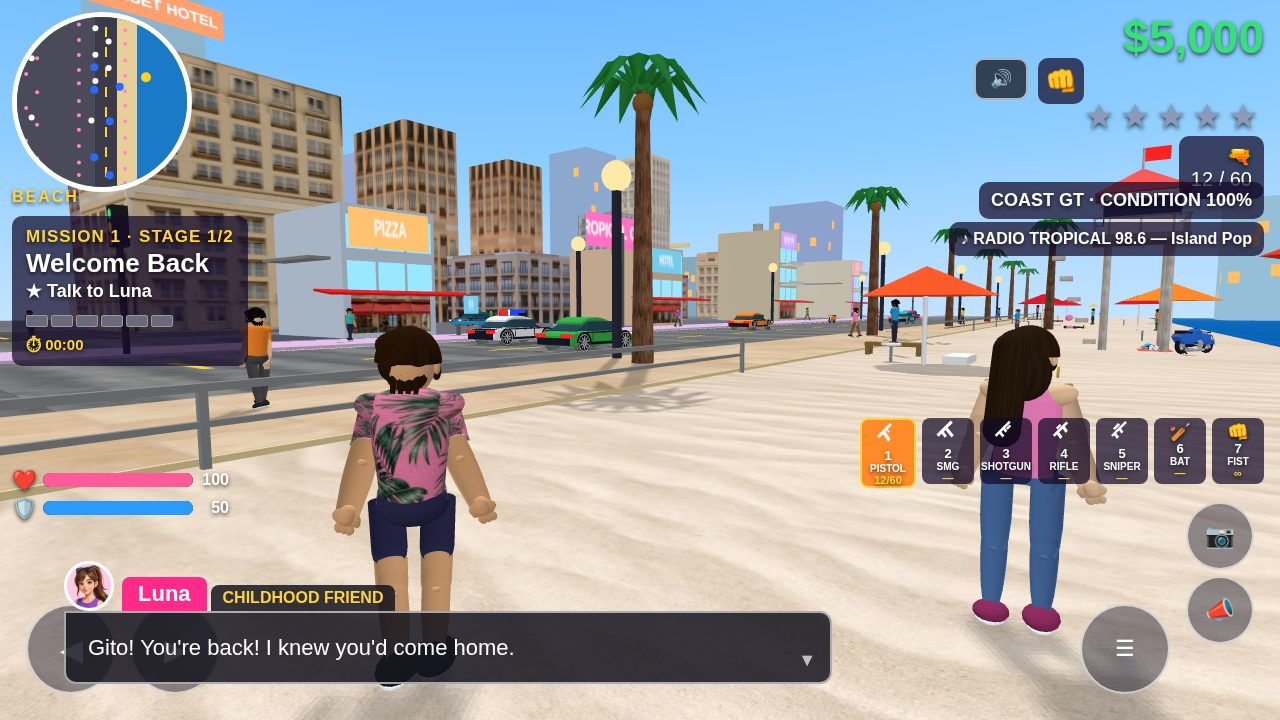
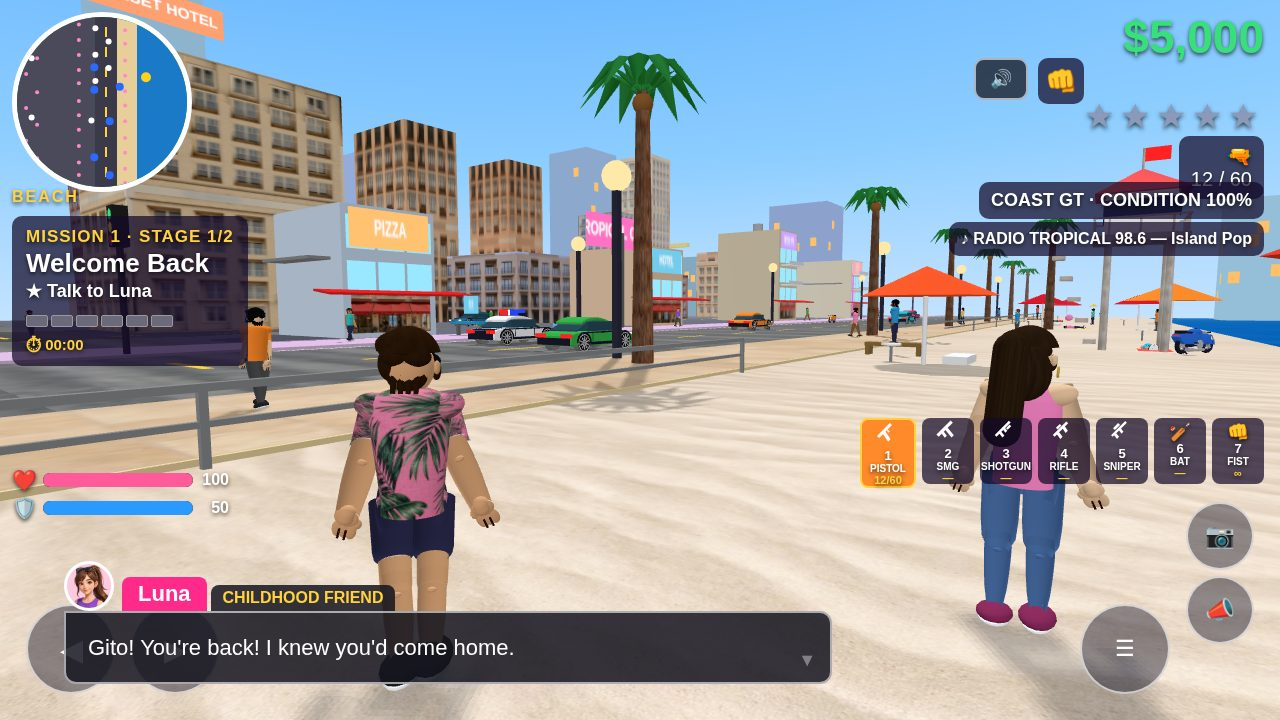
Tropical Coast: continuous hip silhouette, bold face and fingers (round 6)

diff --git a/game/src/character.js b/game/src/character.js
@@ -5,25 +5,29 @@
 var skinCols = [0xe8b88a, 0xc88a5a, 0x8a5a3a, 0xf0c8a0];
 var hairCols = [0x2a1a0a, 0x3a2a1a, 0x111111, 0x8a5a2a];
 
-// A real hand: a flattened palm, three small fused finger bumps in a row
-// (one mass, but the bottom silhouette scallops into readable fingers),
-// two thin dark grooves between the bumps, and a small round thumb bump
-// on the inner edge. No single mitten blob.
+// A real hand with BOLD readable fingers at 150px scale: a narrower
+// flattened palm, three large fused finger bumps in a row (one mass, but
+// the bottom silhouette scallops deep into readable fingers), two wide
+// very dark grooves between the bumps on BOTH faces (front and back, so
+// the hand reads fingered from behind too), and a bigger thumb bump on
+// the inner edge. No single mitten blob, no boxing glove.
 function makeHand(skinM, side) {
   var h = new THREE.Group();
   var palm = new THREE.Mesh(new THREE.SphereGeometry(0.055, 16, 12), skinM);
-  palm.scale.set(1.35, 1.0, 0.34); h.add(palm);
-  var grooveM = new THREE.MeshLambertMaterial({ color: 0x8a5a3a });
-  [-0.028, 0, 0.028].forEach(function (fx) {
-    var finger = new THREE.Mesh(new THREE.SphereGeometry(0.024, 12, 10), skinM);
-    finger.scale.set(1.0, 1.5, 0.45); finger.position.set(fx, -0.082, 0.008); h.add(finger);
+  palm.scale.set(1.15, 1.0, 0.34); h.add(palm);
+  var grooveM = new THREE.MeshLambertMaterial({ color: 0x2a1206 });
+  [-0.034, 0, 0.034].forEach(function (fx) {
+    var finger = new THREE.Mesh(new THREE.SphereGeometry(0.030, 12, 10), skinM);
+    finger.scale.set(1.0, 1.8, 0.45); finger.position.set(fx, -0.088, 0.008); h.add(finger);
   });
-  [-0.014, 0.014].forEach(function (gx) {
-    var groove = new THREE.Mesh(new THREE.BoxGeometry(0.005, 0.045, 0.006), grooveM);
-    groove.position.set(gx, -0.092, 0.020); h.add(groove);
+  [-0.017, 0.017].forEach(function (gx) {
+    var groove = new THREE.Mesh(new THREE.BoxGeometry(0.010, 0.062, 0.008), grooveM);
+    groove.position.set(gx, -0.095, 0.022); h.add(groove);
+    var grooveB = new THREE.Mesh(new THREE.BoxGeometry(0.010, 0.062, 0.008), grooveM);
+    grooveB.position.set(gx, -0.095, -0.022); h.add(grooveB);
   });
-  var th = new THREE.Mesh(new THREE.SphereGeometry(0.018, 10, 8), skinM);
-  th.scale.set(1, 1.4, 0.8); th.position.set(-side * 0.055, -0.036, 0.014); h.add(th);
+  var th = new THREE.Mesh(new THREE.SphereGeometry(0.022, 10, 8), skinM);
+  th.scale.set(1, 1.4, 0.8); th.position.set(-side * 0.058, -0.036, 0.014); h.add(th);
   return h;
 }
 // A shoe: a wide elliptical upper (not a ball, not a box) on a thin light
@@ -56,7 +60,7 @@ function makeHead(skinM, hairM, opts) {
   skull.scale.set(1, 1.15, 1.0); head.add(skull);
   var jaw = new THREE.Mesh(new THREE.SphereGeometry(0.085, 14, 12), skinM);
   jaw.scale.set(0.82, 0.62, 0.88); jaw.position.set(0, -0.075, 0.015); head.add(jaw);
-  var hair = new THREE.Mesh(new THREE.SphereGeometry(0.15, 20, 16, 0, Math.PI * 2, 0, Math.PI * 0.50), hairM);
+  var hair = new THREE.Mesh(new THREE.SphereGeometry(0.15, 20, 16, 0, Math.PI * 2, 0, Math.PI * 0.40), hairM);
   hair.scale.set(1.08, 1.22, 1.14); hair.position.set(0, 0.025, -0.015); head.add(hair);
   var nape = new THREE.Mesh(new THREE.SphereGeometry(0.10, 14, 12), hairM);
   nape.scale.set(1.0, 0.75, 0.55); nape.position.set(0, -0.045, -0.06); head.add(nape);
@@ -73,7 +77,7 @@ function makeHead(skinM, hairM, opts) {
   var sweep = new THREE.Mesh(new THREE.SphereGeometry(0.105, 14, 12), hairM);
   sweep.scale.set(0.6, 0.9, 1.0); sweep.position.set(0.085, 0.02, -0.01); head.add(sweep);
   var fringe = new THREE.Mesh(new THREE.SphereGeometry(0.10, 14, 12), hairM);
-  fringe.scale.set(1.15, 0.55, 0.60); fringe.position.set(0.04, 0.105, 0.09); head.add(fringe);
+  fringe.scale.set(1.15, 0.42, 0.50); fringe.position.set(0.04, 0.125, 0.06); head.add(fringe);
   [-0.125, 0.125].forEach(function (ex) {
     var sb = new THREE.Mesh(new THREE.SphereGeometry(0.04, 12, 10), hairM);
     sb.scale.set(0.6, 1.3, 0.7); sb.position.set(ex, -0.02, 0.05); head.add(sb);
@@ -84,24 +88,24 @@ function makeHead(skinM, hairM, opts) {
   });
   if (opts.eyes) {
     [-0.055, 0.055].forEach(function (ex) {
-      var iris = new THREE.Mesh(new THREE.SphereGeometry(0.012, 12, 10), new THREE.MeshLambertMaterial({ color: 0x2a1a10 }));
-      iris.scale.set(1, 1, 0.4); iris.position.set(ex, 0.02, 0.118); head.add(iris);
+      var iris = new THREE.Mesh(new THREE.SphereGeometry(0.018, 12, 10), new THREE.MeshLambertMaterial({ color: 0x2a1a10 }));
+      iris.scale.set(1, 1, 0.4); iris.position.set(ex, 0.02, 0.120); head.add(iris);
       var glint = new THREE.Mesh(new THREE.SphereGeometry(0.0035, 8, 6), new THREE.MeshLambertMaterial({ color: 0xffffff }));
-      glint.scale.set(1, 1, 0.5); glint.position.set(ex - 0.004, 0.026, 0.122); head.add(glint);
-      var brow = new THREE.Mesh(new THREE.BoxGeometry(0.05, 0.012, 0.012), hairM);
-      brow.position.set(ex, 0.105, 0.122); head.add(brow);
+      glint.scale.set(1, 1, 0.5); glint.position.set(ex - 0.004, 0.026, 0.124); head.add(glint);
+      var brow = new THREE.Mesh(new THREE.BoxGeometry(0.062, 0.018, 0.012), hairM);
+      brow.position.set(ex, 0.078, 0.126); head.add(brow);
     });
   }
   if (opts.faceGlasses) {
-    var sgM = new THREE.MeshLambertMaterial({ color: 0x111114 });
-    [-0.052, 0.052].forEach(function (ex) {
-      var lens = new THREE.Mesh(new THREE.SphereGeometry(0.055, 12, 10), sgM);
-      lens.scale.set(1.0, 0.62, 0.25); lens.position.set(ex, 0.022, 0.125);
+    var sgM = new THREE.MeshBasicMaterial({ color: 0x0a0a0c });
+    [-0.056, 0.056].forEach(function (ex) {
+      var lens = new THREE.Mesh(new THREE.SphereGeometry(0.066, 12, 10), sgM);
+      lens.scale.set(1.18, 0.72, 0.22); lens.position.set(ex, 0.022, 0.125);
       lens.rotation.y = ex < 0 ? 0.18 : -0.18;
       head.add(lens);
     });
-    var topBar = new THREE.Mesh(new THREE.BoxGeometry(0.16, 0.012, 0.012), sgM);
-    topBar.position.set(0, 0.055, 0.124); head.add(topBar);
+    var topBar = new THREE.Mesh(new THREE.BoxGeometry(0.20, 0.02, 0.012), sgM);
+    topBar.position.set(0, 0.058, 0.124); head.add(topBar);
     var bridge = new THREE.Mesh(new THREE.BoxGeometry(0.028, 0.008, 0.010), sgM);
     bridge.position.set(0, 0.030, 0.124); head.add(bridge);
     [-0.104, 0.104].forEach(function (ax) {
@@ -128,14 +132,14 @@ function makeHead(skinM, hairM, opts) {
       hoop.position.set(ex, -0.07, 0.01); hoop.rotation.y = Math.PI / 2; head.add(hoop);
     });
   }
-  var nose = new THREE.Mesh(new THREE.SphereGeometry(0.026, 10, 8), skinM);
-  nose.scale.set(0.8, 1.1, 0.9); nose.position.set(0, -0.025, 0.145); head.add(nose);
+  var nose = new THREE.Mesh(new THREE.SphereGeometry(0.034, 10, 8), skinM);
+  nose.scale.set(0.9, 1.25, 1.0); nose.position.set(0, -0.025, 0.150); head.add(nose);
   if (opts.smile) {
-    var smile = new THREE.Mesh(new THREE.TorusGeometry(0.038, 0.006, 6, 12, Math.PI), new THREE.MeshLambertMaterial({ color: 0x6a2a2a }));
+    var smile = new THREE.Mesh(new THREE.TorusGeometry(0.05, 0.008, 6, 12, Math.PI), new THREE.MeshLambertMaterial({ color: 0x4a1a1a }));
     smile.position.set(0, -0.082, 0.12); smile.rotation.z = Math.PI;
     head.add(smile);
   } else {
-    var mouth = new THREE.Mesh(new THREE.BoxGeometry(0.062, 0.016, 0.012), new THREE.MeshLambertMaterial({ color: 0x6a2a2a }));
+    var mouth = new THREE.Mesh(new THREE.BoxGeometry(0.082, 0.024, 0.012), new THREE.MeshLambertMaterial({ color: 0x4a1a1a }));
     mouth.position.set(0, -0.085, 0.12); head.add(mouth);
   }
   return head;
@@ -151,11 +155,11 @@ function person(shirt, pants, female, opts) {
   var shirtM = new THREE.MeshLambertMaterial({ color: shirt });
   var pantsM = new THREE.MeshLambertMaterial({ color: pants });
   var legL = new THREE.Group(), legR = new THREE.Group();
-  legL.position.set(-0.13, 0.95, 0); legR.position.set(0.13, 0.95, 0);
+  legL.position.set(-0.11, 0.95, 0); legR.position.set(0.11, 0.95, 0);
   legL.rotation.z = 0.02; legR.rotation.z = -0.08;
   [legL, legR].forEach(function (lg) {
     var thighPts = [];
-    [[0.088, 0.25], [0.088, -0.17], [0.082, -0.23], [0.064, -0.25]].forEach(function (p) { thighPts.push(new THREE.Vector2(p[0], p[1])); });
+    [[0.105, 0.25], [0.105, -0.05], [0.098, -0.17], [0.082, -0.23], [0.064, -0.25]].forEach(function (p) { thighPts.push(new THREE.Vector2(p[0], p[1])); });
     var thigh = new THREE.Mesh(new THREE.LatheGeometry(thighPts, 20), pantsM);
     thigh.position.y = -0.25; lg.add(thigh);
     var knee = new THREE.Group(); knee.position.y = -0.50; lg.add(knee);
@@ -169,7 +173,7 @@ function person(shirt, pants, female, opts) {
   });
   g.add(legL); g.add(legR);
   var torsoPts = [];
-  [[0.155, 0.00], [0.165, 0.08], [0.175, 0.18], [0.19, 0.30], [0.20, 0.40], [0.205, 0.47], [0.20, 0.51], [0.175, 0.545], [0.13, 0.565], [0.085, 0.58]].forEach(function (p) { torsoPts.push(new THREE.Vector2(p[0], p[1])); });
+  [[0.158, -0.07], [0.155, 0.00], [0.165, 0.08], [0.175, 0.18], [0.19, 0.30], [0.20, 0.40], [0.205, 0.47], [0.20, 0.51], [0.175, 0.545], [0.13, 0.565], [0.085, 0.58]].forEach(function (p) { torsoPts.push(new THREE.Vector2(p[0], p[1])); });
   var torso = new THREE.Mesh(new THREE.LatheGeometry(torsoPts, 20), shirtM);
   torso.position.y = 0.95; torso.scale.z = 0.78; g.add(torso);
   var chest = new THREE.Mesh(new THREE.SphereGeometry(0.14, 16, 12), shirtM);
@@ -211,8 +215,10 @@ function person(shirt, pants, female, opts) {
   var head = makeHead(skin, new THREE.MeshLambertMaterial({ color: hairCols[Math.floor(rnd() * hairCols.length)] }), { eyes: true });
   g.add(head);
   head.rotation.z = 0.03;
-  var pelvis = new THREE.Mesh(new THREE.SphereGeometry(0.16, 20, 16), pantsM);
-  pelvis.scale.set(1.15, 0.75, 0.80); pelvis.position.y = 0.93; g.add(pelvis);
+  var hipPts = [];
+  [[0.165, 0.10], [0.178, 0.04], [0.182, -0.04], [0.172, -0.10], [0.158, -0.14]].forEach(function (p) { hipPts.push(new THREE.Vector2(p[0], p[1])); });
+  var pelvis = new THREE.Mesh(new THREE.LatheGeometry(hipPts, 20), pantsM);
+  pelvis.position.y = 0.92; pelvis.scale.z = 0.80; g.add(pelvis);
   g.userData = { armL: armL, armR: armR, legL: legL, legR: legR, head: head };
   g.traverse(function (o) { if (o.isMesh) o.castShadow = true; });
   return g;
@@ -228,11 +234,11 @@ var gito = new THREE.Group();
   var mShirt = new THREE.MeshLambertMaterial({ map: TEX['shirt-palm'] });
   var mPants = new THREE.MeshLambertMaterial({ color: 0x2a2a4a });
   var legL = new THREE.Group(), legR = new THREE.Group();
-  legL.position.set(-0.13, 0.95, 0); legR.position.set(0.13, 0.95, 0);
+  legL.position.set(-0.11, 0.95, 0); legR.position.set(0.11, 0.95, 0);
   legL.rotation.z = 0.05; legR.rotation.z = -0.05;
   [legL, legR].forEach(function (lg) {
     var shortsPts = [];
-    [[0.088, 0.16], [0.088, -0.10], [0.082, -0.14], [0.066, -0.16]].forEach(function (p) { shortsPts.push(new THREE.Vector2(p[0], p[1])); });
+    [[0.105, 0.16], [0.105, -0.10], [0.098, -0.14], [0.080, -0.16]].forEach(function (p) { shortsPts.push(new THREE.Vector2(p[0], p[1])); });
     var shorts = new THREE.Mesh(new THREE.LatheGeometry(shortsPts, 20), mPants); shorts.position.y = -0.16; lg.add(shorts);
     var thighSkinPts = [];
     [[0.082, 0.09], [0.079, -0.05], [0.072, -0.09]].forEach(function (p) { thighSkinPts.push(new THREE.Vector2(p[0], p[1])); });
@@ -248,7 +254,7 @@ var gito = new THREE.Group();
   });
   gito.add(legL); gito.add(legR);
   var torsoPts = [];
-  [[0.155, 0.00], [0.165, 0.08], [0.175, 0.18], [0.19, 0.30], [0.20, 0.40], [0.205, 0.47], [0.20, 0.51], [0.175, 0.545], [0.13, 0.565], [0.085, 0.58]].forEach(function (p) { torsoPts.push(new THREE.Vector2(p[0], p[1])); });
+  [[0.158, -0.07], [0.155, 0.00], [0.165, 0.08], [0.175, 0.18], [0.19, 0.30], [0.20, 0.40], [0.205, 0.47], [0.20, 0.51], [0.175, 0.545], [0.13, 0.565], [0.085, 0.58]].forEach(function (p) { torsoPts.push(new THREE.Vector2(p[0], p[1])); });
   var torso = new THREE.Mesh(new THREE.LatheGeometry(torsoPts, 20), mShirt); torso.position.y = 0.95; torso.scale.z = 0.78; gito.add(torso);
   var chest = new THREE.Mesh(new THREE.SphereGeometry(0.14, 16, 12), mShirt);
   chest.scale.set(1.0, 0.6, 0.5); chest.position.set(0, 1.33, 0.12); gito.add(chest);
@@ -291,8 +297,10 @@ var gito = new THREE.Group();
   gito.add(armL); gito.add(armR);
   var head = makeHead(mSkin, new THREE.MeshLambertMaterial({ color: 0x3a2410 }), { eyes: true, faceGlasses: true });
   gito.add(head);
-  var pelvis = new THREE.Mesh(new THREE.SphereGeometry(0.16, 20, 16), mPants);
-  pelvis.scale.set(1.15, 0.75, 0.80); pelvis.position.y = 0.93; gito.add(pelvis);
+  var hipPts = [];
+  [[0.165, 0.10], [0.178, 0.04], [0.182, -0.04], [0.172, -0.10], [0.158, -0.14]].forEach(function (p) { hipPts.push(new THREE.Vector2(p[0], p[1])); });
+  var pelvis = new THREE.Mesh(new THREE.LatheGeometry(hipPts, 20), mPants);
+  pelvis.position.y = 0.92; pelvis.scale.z = 0.80; gito.add(pelvis);
   gito.userData = { armL: armL, armR: armR, legL: legL, legR: legR, head: head };
   gito.traverse(function (o) { if (o.isMesh) o.castShadow = true; });
 })();
@@ -308,7 +316,7 @@ var woman = new THREE.Group();
   var wSkin = new THREE.MeshLambertMaterial({ color: 0xf0c8a0 });
   var wDenim = new THREE.MeshLambertMaterial({ color: 0x4a6fa5 });
   var wTopPts = [];
-  [[0.155, 0.00], [0.160, 0.10], [0.168, 0.20], [0.178, 0.28], [0.182, 0.36], [0.178, 0.44], [0.165, 0.48], [0.135, 0.51], [0.105, 0.53], [0.085, 0.54]].forEach(function (p) { wTopPts.push(new THREE.Vector2(p[0], p[1])); });
+  [[0.158, -0.07], [0.155, 0.00], [0.160, 0.10], [0.168, 0.20], [0.178, 0.28], [0.182, 0.36], [0.178, 0.44], [0.165, 0.48], [0.135, 0.51], [0.105, 0.53], [0.085, 0.54]].forEach(function (p) { wTopPts.push(new THREE.Vector2(p[0], p[1])); });
   var wTop = new THREE.Mesh(new THREE.LatheGeometry(wTopPts, 20), new THREE.MeshLambertMaterial({ color: 0xff8ac8 }));
   wTop.position.y = 0.95; wTop.scale.z = 0.80; woman.add(wTop);
   [-0.155, 0.155].forEach(function (sx) {
@@ -328,14 +336,14 @@ var woman = new THREE.Group();
   wPony.position.set(0.08, -0.18, -0.24); wPony.rotation.x = 0.25; head.add(wPony);
   woman.add(head);
   var wHipsPts = [];
-  [[0.165, 0.11], [0.175, 0.05], [0.185, -0.05], [0.178, -0.11]].forEach(function (p) { wHipsPts.push(new THREE.Vector2(p[0], p[1])); });
+  [[0.168, 0.11], [0.178, 0.05], [0.186, -0.05], [0.18, -0.11], [0.172, -0.17]].forEach(function (p) { wHipsPts.push(new THREE.Vector2(p[0], p[1])); });
   var wHips = new THREE.Mesh(new THREE.LatheGeometry(wHipsPts, 20), wDenim);
   wHips.position.y = 0.95; wHips.scale.z = 0.8; woman.add(wHips);
   var legL = new THREE.Group(), legR = new THREE.Group();
-  legL.position.set(-0.13, 0.95, 0); legR.position.set(0.13, 0.95, 0);
+  legL.position.set(-0.11, 0.95, 0); legR.position.set(0.11, 0.95, 0);
   [legL, legR].forEach(function (lg) {
     var thighPts = [];
-    [[0.088, 0.25], [0.085, -0.05], [0.076, -0.17], [0.064, -0.23], [0.056, -0.25]].forEach(function (p) { thighPts.push(new THREE.Vector2(p[0], p[1])); });
+    [[0.105, 0.25], [0.102, -0.05], [0.092, -0.17], [0.064, -0.23], [0.056, -0.25]].forEach(function (p) { thighPts.push(new THREE.Vector2(p[0], p[1])); });
     var thigh = new THREE.Mesh(new THREE.LatheGeometry(thighPts, 20), wDenim);
     thigh.position.y = -0.25; lg.add(thigh);
     var knee = new THREE.Group(); knee.position.y = -0.50; lg.add(knee);
